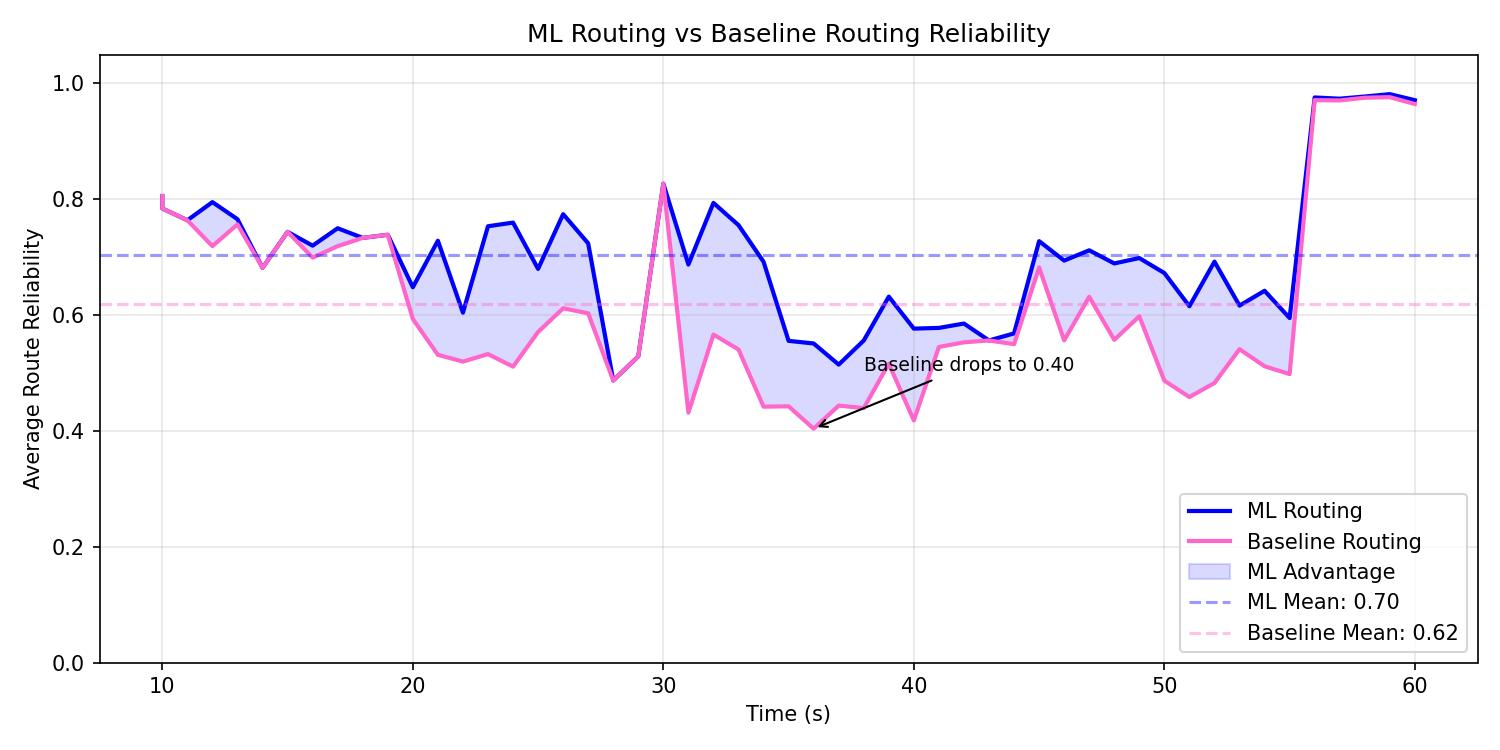
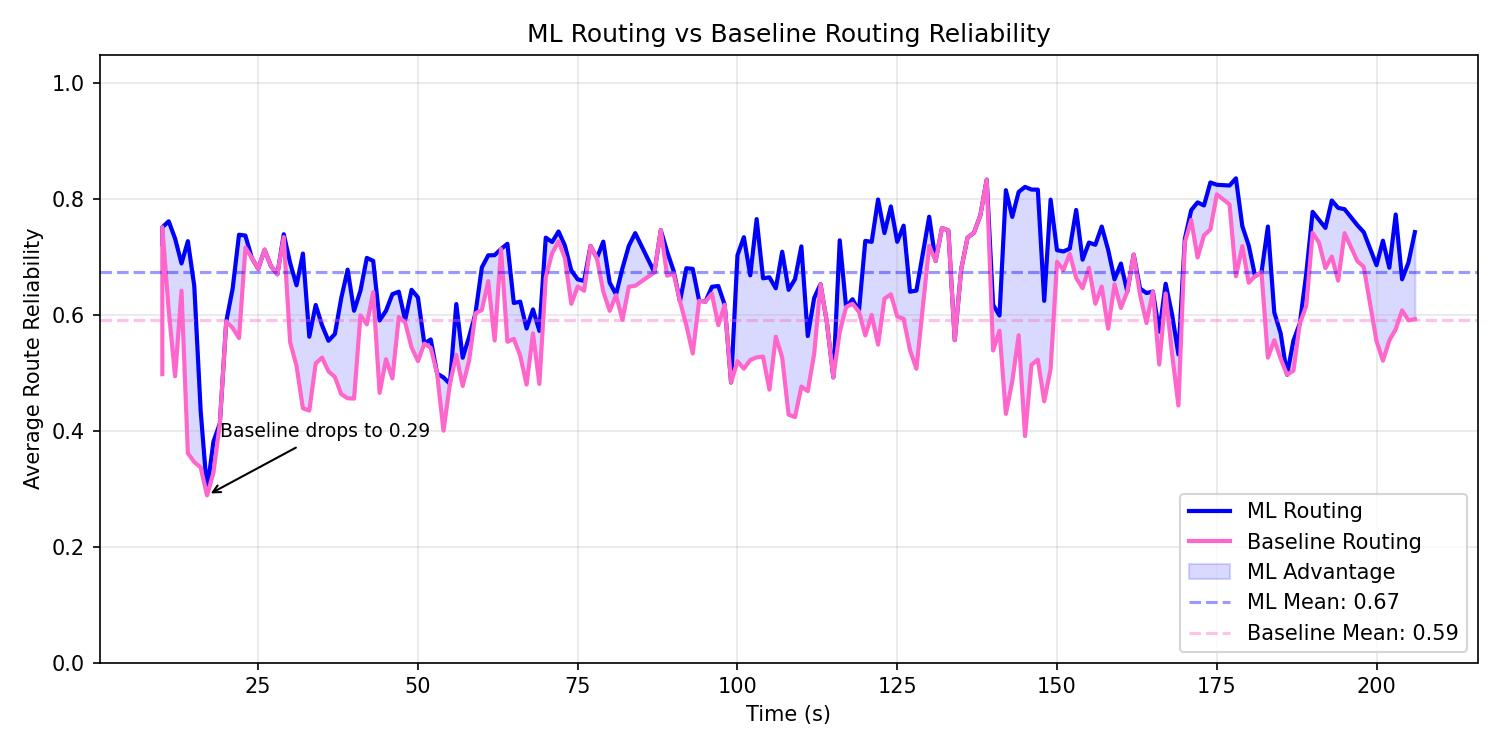
Updated routing animation

diff --git a/src/routing_animation.py b/src/routing_animation.py
@@ -1,5 +1,6 @@
 import sys
 import random
+import argparse
 import numpy as np
 import pandas as pd
 import networkx as nx
@@ -314,5 +315,25 @@ class MANETAnimation:
 
 
 if __name__ == "__main__":
-    animation = MANETAnimation("dataset/manet_featured_dataset.csv", start_time=10.0)
+    parser = argparse.ArgumentParser(description="Animate MANET routing over a featured dataset.")
+    parser.add_argument(
+        "--dataset",
+        default="dataset/paper/processed/paper_lfp_dataset.csv",
+        help="Path to featured dataset CSV (default: shared paper dataset).",
+    )
+    parser.add_argument("--start-time", type=float, default=10.0, help="Starting time for animation.")
+    parser.add_argument("--run-id", type=int, default=None, help="Specific run_id to animate.")
+    parser.add_argument("--pair-change-every", type=int, default=10, help="Change src/dst pair every N frames.")
+    parser.add_argument("--min-hops", type=int, default=3, help="Minimum hop count when sampling src/dst.")
+    parser.add_argument("--seed", type=int, default=42, help="Random seed for pair sampling.")
+    args = parser.parse_args()
+
+    animation = MANETAnimation(
+        args.dataset,
+        start_time=args.start_time,
+        run_id=args.run_id,
+        pair_change_every=args.pair_change_every,
+        min_hops=args.min_hops,
+        random_seed=args.seed,
+    )
     animation.animate()
